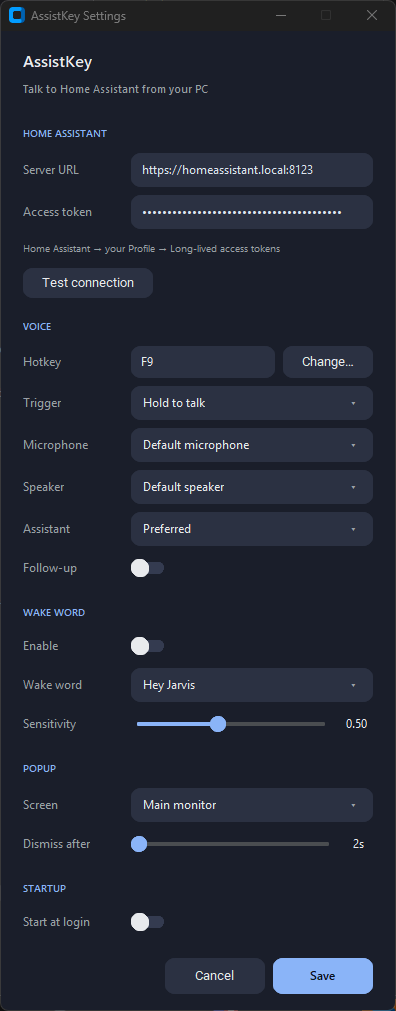
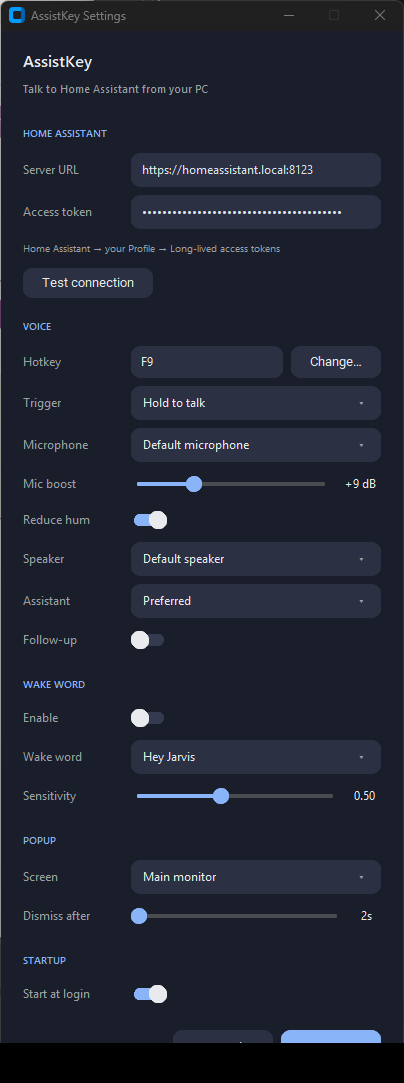
Add opt-in mic boost + gentle high-pass to improve recognition
User asked about raising mic level / reducing noise app-side. STT runs on HA
(Whisper etc.), so we can only condition what we SEND — and modern STT is
noise-robust and usually does WORSE on heavily denoised audio. So this does
LEVEL + gentle cleanup only, not spectral denoising.

- _MicDSP (assist_client): per-utterance, in on_audio before queuing to HA,
  skipped entirely when neutral. Linear boost from config.mic_gain_db
  (hard-clipped to int16 so it can't overflow/wrap), then an optional 1st-order
  high-pass/DC-blocker (~80 Hz, stateful) from config.mic_highpass.
- The level meter now reflects the PROCESSED signal, so the boost can be dialled
  in by watching the Listening bar.
- Settings -> Voice: "Mic boost" slider (0..+30 dB) + "Reduce hum" toggle. Both
  default OFF (no silent change for existing configs). No new dependencies.

Tests: +6 (inactive-when-neutral, +6 dB ~= x2, +12 dB hard-clips instead of
int16-wrapping, DC decays through the high-pass, state carries across blocks,
a 440 Hz tone survives). Settings dialog builds with the controls; screenshot
refreshed. 66 pass.

Side finding (-> ToDo): the settings dialog is now ~1051 px and overflows a
1080p work area (Save off-screen); fine on the dev 2560x1392. Deferred a
scrollable-dialog fix as a pre-public item.

diff --git a/overlay.py b/overlay.py
@@ -940,6 +940,26 @@ class SettingsDialog:
         self.mic_var = tk.StringVar()
         self._option(body, "Microphone", self.mic_map, config.mic_device, self.mic_var,
                      tip="Which microphone to record your voice from, or your Windows default.")
+        gr = ctk.CTkFrame(body, fg_color="transparent")
+        gr.pack(fill="x", pady=4)
+        ctk.CTkLabel(gr, text="Mic boost", text_color=S_MUTED, width=self.LABEL_W, anchor="w",
+                     font=("Segoe UI", 12)).pack(side="left")
+        self.gain_var = tk.IntVar(value=int(round(config.mic_gain_db)))
+        gain = ctk.CTkSlider(gr, from_=0, to=30, number_of_steps=30, variable=self.gain_var,
+                             command=self._on_gain, progress_color=S_ACCENT, button_color=S_ACCENT,
+                             button_hover_color=S_ACCENT)
+        gain.pack(side="left", fill="x", expand=True, padx=(0, 10))
+        self.gain_label = ctk.CTkLabel(gr, text=self._gain_text(config.mic_gain_db), text_color=S_FG,
+                                       width=40, font=("Segoe UI", 12))
+        self.gain_label.pack(side="left")
+        _Tooltip(gain, "Amplify a quiet mic before sending to Home Assistant. Watch the level bar "
+                       "in the Listening popup and set it so your normal voice fills the bar without "
+                       "maxing out (clipping hurts recognition). 0 = off.")
+        self.highpass_var = self._toggle_row(
+            body, "Reduce hum", config.mic_highpass,
+            tip="A gentle high-pass filter that trims low-frequency hum, rumble and DC offset before "
+                "sending to Home Assistant. Safe for speech. (Real noise suppression is intentionally "
+                "not offered — modern speech-to-text usually does WORSE on heavily denoised audio.)")
         self.spk_map = [("Default speaker", None)] + [(lbl, idx) for idx, lbl in list_output_devices()]
         self.spk_var = tk.StringVar()
         self._option(body, "Speaker", self.spk_map, config.speaker_device, self.spk_var,
@@ -1100,6 +1120,14 @@ class SettingsDialog:
     def _on_sens(self, value):
         self.sens_label.configure(text=f"{float(value):.2f}")
 
+    @staticmethod
+    def _gain_text(db) -> str:
+        db = int(round(float(db)))
+        return "off" if db <= 0 else f"+{db} dB"
+
+    def _on_gain(self, value):
+        self.gain_label.configure(text=self._gain_text(value))
+
     def _test(self):
         url, token = self.url_var.get(), self.token_var.get()
         self.test_result.configure(text="Testing…", text_color=S_MUTED)
@@ -1187,6 +1215,8 @@ class SettingsDialog:
         self.config.hotkey = self.pending_hotkey or ["f9"]
         self.config.trigger_mode = self._value_for(self.trigger_map, self.trigger_var) or "hold"
         self.config.mic_device = self._value_for(self.mic_map, self.mic_var)
+        self.config.mic_gain_db = float(self.gain_var.get())
+        self.config.mic_highpass = bool(self.highpass_var.get())
         self.config.speaker_device = self._value_for(self.spk_map, self.spk_var)
         self.config.pipeline = self._value_for(self.pipe_map, self.pipe_var)
         self.config.wake_enabled = bool(self.wake_var.get())

diff --git a/assist_client.py b/assist_client.py
@@ -122,6 +122,47 @@ def _list_devices(cap: str) -> list[tuple[int, str]]:
     return [(i, d["name"]) for i, d in enumerate(devices) if d[cap] > 0]
 
 
+class _MicDSP:
+    """Optional in-app conditioning applied to each 16-bit mic block BEFORE it is
+    streamed to Home Assistant: a linear boost (from dB, hard-clipped so it can't
+    overflow int16) and an optional 1st-order high-pass / DC-blocker (~80 Hz) that
+    trims mains hum, rumble and DC bias.
+
+    STT runs on HA (Whisper etc.), which is noise-robust and prefers natural audio —
+    so this deliberately does LEVEL + gentle cleanup only, never aggressive
+    denoising (which tends to hurt recognition). Stateful across blocks (the filter
+    carries memory); one instance per utterance.
+    """
+    _HP_A = 0.969   # ~80 Hz cutoff at 16 kHz for the 1st-order high-pass
+
+    def __init__(self, gain_db: float, highpass: bool):
+        self._gain = float(10.0 ** (float(gain_db) / 20.0))
+        self._highpass = bool(highpass)
+        self._x1 = 0.0   # previous input  \ high-pass state carried
+        self._y1 = 0.0   # previous output /  across blocks
+
+    @property
+    def active(self) -> bool:
+        """True only if it would change the audio (else the caller skips it entirely)."""
+        return self._highpass or abs(self._gain - 1.0) > 1e-3
+
+    def process(self, samples: np.ndarray) -> np.ndarray:
+        x = samples.astype(np.float32)
+        if self._highpass:
+            a, x1, y1 = self._HP_A, self._x1, self._y1
+            out = []
+            for xi in x.tolist():          # ~1600 samples/block, 10/s — cheap
+                y1 = xi - x1 + a * y1      # DC-blocker: ~unity passband gain
+                x1 = xi
+                out.append(y1)
+            self._x1, self._y1 = x1, y1
+            x = np.asarray(out, dtype=np.float32)
+        if self._gain != 1.0:
+            x *= self._gain
+        np.clip(x, -32768.0, 32767.0, out=x)   # hard-clip so the boost can't overflow
+        return x.astype(np.int16)
+
+
 class AssistClient:
     def __init__(self, config, ui):
         self.config = config
@@ -384,11 +425,15 @@ class AssistClient:
         stop_capture = asyncio.Event()
         finished = asyncio.Event()
 
+        dsp = _MicDSP(self.config.mic_gain_db, self.config.mic_highpass)
+
         def on_audio(indata, frames, t, status):
-            b = bytes(indata)
-            audio_q.put(b)
-            # Emit a mic level (0..1 peak) for the Listening meter. Cheap; ~10/s.
-            arr = np.frombuffer(b, dtype=np.int16)
+            arr = np.frombuffer(bytes(indata), dtype=np.int16)
+            if dsp.active:
+                arr = dsp.process(arr)   # boost / high-pass BEFORE streaming to HA
+            audio_q.put(arr.tobytes())
+            # Emit a mic level (0..1 peak) for the Listening meter — on the PROCESSED
+            # signal, so the bar reflects what HA receives (dial the boost by it). ~10/s.
             if arr.size:
                 self.ui(("level", float(np.abs(arr).max()) / 32768.0))
 

diff --git a/tests/test_mic_dsp.py b/tests/test_mic_dsp.py
@@ -1,0 +1,53 @@
+"""In-app mic conditioning (_MicDSP): boost, clip protection, gentle high-pass."""
+import numpy as np
+
+from assist_client import _MicDSP
+
+
+def test_inactive_when_neutral():
+    # gain 0 dB + high-pass off => nothing to do; caller skips it entirely.
+    assert _MicDSP(0.0, False).active is False
+    assert _MicDSP(6.0, False).active is True
+    assert _MicDSP(0.0, True).active is True
+
+
+def test_gain_boosts_amplitude():
+    dsp = _MicDSP(6.0, False)                     # +6 dB ≈ ×1.995
+    out = dsp.process(np.array([1000, -1000, 500], dtype=np.int16))
+    assert out.dtype == np.int16
+    assert abs(int(out[0]) - 1995) <= 3
+    assert abs(int(out[1]) + 1995) <= 3
+
+
+def test_gain_hard_clips_instead_of_overflowing():
+    # 20000 × ~4 (+12 dB) = ~80000; must clip to the int16 range, NOT wrap negative.
+    dsp = _MicDSP(12.0, False)
+    out = dsp.process(np.full(64, 20000, dtype=np.int16))
+    assert out.max() == 32767            # clipped, not wrapped
+    assert out.min() >= -32768
+    assert int(out[0]) > 0               # would be negative if int16 overflow wrapped
+
+
+def test_highpass_removes_dc_offset():
+    # A constant (pure-DC) signal must decay toward 0 through the DC-blocker.
+    dsp = _MicDSP(0.0, True)
+    out = dsp.process(np.full(2000, 5000, dtype=np.int16))
+    assert abs(int(out[0])) > 1000       # starts near the input level
+    assert abs(int(out[-1])) < 50        # DC removed by the tail
+
+
+def test_highpass_preserves_state_across_blocks():
+    # Feeding the same constant across two blocks keeps decaying (state carried),
+    # it doesn't reset to the input level at the block boundary.
+    dsp = _MicDSP(0.0, True)
+    dsp.process(np.full(2000, 5000, dtype=np.int16))
+    out2 = dsp.process(np.full(200, 5000, dtype=np.int16))
+    assert abs(int(out2[0])) < 100       # continues from the settled state, no jump
+
+
+def test_passband_signal_survives_highpass():
+    # A mid-frequency tone (well above the ~80 Hz cutoff) must pass ~intact.
+    t = np.arange(1600)
+    tone = (8000 * np.sin(2 * np.pi * 440 * t / 16000)).astype(np.int16)  # 440 Hz @ 16 kHz
+    out = _MicDSP(0.0, True).process(tone)
+    assert out.astype(np.float32).std() > 0.7 * tone.astype(np.float32).std()

diff --git a/config.py b/config.py
@@ -66,6 +66,8 @@ class Config:
     wake_word: str = "hey_jarvis"          # openWakeWord model name
     wake_sensitivity: float = 0.5          # 0–1 detection threshold (higher = stricter)
     mic_device: int | None = None          # sounddevice index; None = default
+    mic_gain_db: float = 0.0               # in-app mic boost in dB before streaming; 0 = off
+    mic_highpass: bool = False             # gentle high-pass/DC-blocker to trim hum & rumble
     speaker_device: int | None = None      # sounddevice index; None = default
     pipeline: str | None = None            # HA pipeline id; None = preferred
     dismiss_seconds: float = 2.0           # seconds the popup lingers AFTER the reply is spoken
@@ -109,6 +111,8 @@ class Config:
             "wake_word": self.wake_word,
             "wake_sensitivity": self.wake_sensitivity,
             "mic_device": self.mic_device,
+            "mic_gain_db": self.mic_gain_db,
+            "mic_highpass": self.mic_highpass,
             "speaker_device": self.speaker_device,
             "pipeline": self.pipeline,
             "dismiss_seconds": self.dismiss_seconds,

diff --git a/docs/KnowledgeBase.md b/docs/KnowledgeBase.md
@@ -2,7 +2,7 @@
 
 _The distilled MODEL: how AssistKey actually behaves. Every claim tagged FACT / HYPOTHESIS / ASSUMPTION / UNKNOWN. Read this first for behaviour/design reasoning. Numbers owned by code live in code — this points to them._
 
-_Last verified: 2026-08-27 — pump() busy-loop fix, full audit (7 fixes), + interruptible TTS fetch (barge-in now ~15 ms during a slow fetch)._
+_Last verified: 2026-08-27 — pump() busy-loop fix, full audit (7 fixes), interruptible TTS fetch, + opt-in mic boost/high-pass._
 
 ## Architecture
 
@@ -45,7 +45,8 @@ _Last verified: 2026-08-27 — pump() busy-loop fix, full audit (7 fixes), + int
   - **FACT** (⚠ invariant, bug fixed 2026-08-27 audit) — On the 5 s `_idle`-wait TIMEOUT (old run stuck — almost always in `_play`'s uninterruptible 15 s `urlopen` TTS fetch, which `sd.stop()` can't interrupt), `restart_utterance` MUST un-arm `_suppress_next_done` and `return` (NOT fall through to `start_utterance`, which would no-op because `_active` is still true). Otherwise the armed suppression — set optimistically for a replacement that never happens — swallows the old run's `("done",)`, the ONE signal that resumes wake / resets hotkey state → **wake stuck paused until restart**. `request_cancel(suppress_done=True)` assumes a new utterance starts immediately; when it can't, the suppression must be cancelled. Verified: probe (`done` fires on fetch release → wake resumes); test `test_restart_utterance_on_timeout_unarms_suppression_and_skips_noop_start`.
   - **Residual accepted edge case:** if the user's key-*release* physically lands inside the brief cancel-to-restart window (typically single-digit ms — `sd.stop()` unblocks TTS almost instantly), that release can land on the OLD (already-superseded) `_release` event and be lost, since the NEW utterance's `_release` object isn't created until `start_utterance` proceeds. Existing safety nets (`MAX_RECORD`, the popup watchdog) bound the consequence to "have to press again," not a stuck state. Not fully closed — deemed acceptable given a realistic hold-to-talk gesture is never that fast.
   - Verified end-to-end (not just isolated units) by driving the REAL `_run_utterance` loop with faked HA/audio I/O boundaries only: barge-in mid-TTS-playback produced exactly 2 `("listening",)` events and exactly 1 `("done",)` (the new utterance's, not the cancelled one's) — see Journal 2026-08-24. Unit tests: `tests/test_assist_client.py` (`_emit_done` suppression semantics, `restart_utterance` branching for idle/active/timeout).
-- **FACT** — Mic level meter: the `RawInputStream` callback emits `("level", peak 0..1)` ~10×/s; `Overlay.set_level` (attack-fast, release-slow) draws a bar in the Listening popup, reset to 0 in `listening()`.
+- **FACT** — Mic level meter: the `RawInputStream` callback emits `("level", peak 0..1)` ~10×/s; `Overlay.set_level` (attack-fast, release-slow) draws a bar in the Listening popup, reset to 0 in `listening()`. The meter reflects the PROCESSED (post-boost) signal so it can be used to dial in the boost.
+- **FACT** (in-app mic conditioning, 2026-08-27) — STT runs on HA (Whisper etc.), so AssistKey can only improve WHAT IT SENDS. `_MicDSP` (in `on_audio`, per utterance, skipped entirely when `active` is False) applies, before streaming: a linear boost from `config.mic_gain_db` (0 = off; hard-clipped to int16 so it can't overflow/wrap), then an optional 1st-order high-pass/DC-blocker (~80 Hz, `config.mic_highpass`, stateful across blocks) that trims mains hum/rumble/DC. **Deliberately LEVEL + gentle cleanup only, NO spectral denoising** — modern noise-robust STT usually does WORSE on heavily denoised audio (artifacts), so the win is good SNR (loud clean speech), not a scrubbed signal. Both default OFF (opt-in in Settings → Voice: "Mic boost" slider + "Reduce hum" toggle). Tests: `tests/test_mic_dsp.py`.
 - **FACT** (best-effort, HA-version-sensitive) — Conversation continuity: the client captures `conversation_id` from pipeline events and replays it on the next run within `CONVERSATION_TTL` (60 s) so back-to-back commands share context. Follow-up (`config.follow_up_enabled`, default OFF): `_wants_follow_up(io, reply_text)` returns true if `intent-end` carries `continue_conversation` OR the reply itself ends with "?" (many agents ask a clarifying question like "What did you mean?" without setting the flag). Then `consume_follow_up()` makes `app` auto-listen for the next turn (VAD-ended; wake stays paused across the chain) instead of dismissing. The app sets `_follow_up_next` so the next `("listening",)` calls `overlay.listening(follow_up=True)` → the popup shows **"Follow-up · answer now"** instead of "Listening", making the automatic re-listen obvious. Tests: `test_consume_follow_up_*`, `test_wants_follow_up_*`.
 
 ## Settings dialog (`overlay.py` — `SettingsDialog`)

diff --git a/docs/ResearchJournal.md b/docs/ResearchJournal.md
@@ -519,3 +519,30 @@ Verified: probe — barge-in during a blocked fetch returns `_play` in **15 ms**
 up to the full timeout); a second probe confirmed the NORMAL fetch→decode→play→done
 path is intact; unit test `test_play_returns_promptly_on_barge_in_during_fetch` runs
 clean under `-W error::RuntimeWarning` (no orphan-thread warning). 60 tests pass.
+
+---
+
+## 2026-08-27 — In-app mic conditioning (boost + gentle high-pass)
+
+User asked whether we can raise mic level / reduce noise app-side to improve
+recognition. Framed the reality first: STT runs on HA (Whisper etc.), so we can only
+condition WHAT WE SEND — and modern STT is noise-robust and often does WORSE on
+heavily denoised audio. So the reliable win is LEVEL (good SNR), not denoising. User
+picked the recommended "boost + gentle cleanup, no denoising" scope.
+
+Added `_MicDSP` (assist_client): per-utterance, in `on_audio` before queuing to HA,
+skipped when neutral. A linear boost from `mic_gain_db` (hard-clipped to int16) and an
+optional 1st-order high-pass/DC-blocker (~80 Hz, stateful) from `mic_highpass`. The
+level meter now reflects the processed signal so the boost can be dialled in by eye.
+Settings → Voice: "Mic boost" slider (0..+30 dB, label "off"/"+N dB") + "Reduce hum"
+toggle. Both default OFF (no silent change for existing configs). No new dependencies
+(numpy only; high-pass is a short per-block loop — cheap, only during capture).
+
+Verified: 6 DSP unit tests (inactive-when-neutral, +6 dB ≈ ×2, +12 dB on a loud signal
+hard-clips instead of int16-wrapping, DC offset decays through the high-pass, state
+carries across blocks, a 440 Hz tone survives). Settings dialog builds with the new
+controls (gain 9 → "+9 dB"); screenshot refreshed. 66 tests pass.
+
+Side finding (→ ToDo): the settings dialog is now ~1051 px and overflows a 1080p work
+area (Save off-screen); fine on the dev 2560×1392. Deferred a scrollable-dialog fix as
+a pre-public item, kept separate from this feature.

diff --git a/docs/ToDo.md b/docs/ToDo.md
@@ -35,3 +35,4 @@ _Last updated: 2026-08-24_
 - [ ] **[LOW] DPAPI decrypt-failure leaves ciphertext as the "token"** (dpapi.unprotect returns the `dpapi:` string on failure). If config is copied to another Windows account, the app then "connects" with garbage (auth fails / reconnect loops) and Settings shows the garbled token; re-saving re-persists it. Treating an undecryptable token as empty would prompt a clean re-entry. By-design today (KB §Credentials) — revisit if it confuses anyone.
 - [ ] **[LOW] No floor between reconnects on a pathological rapid accept-then-clean-close** (`pump`/`_reconnect`). `_reconnect` only backs off on connect FAILURE; if HA accepted then immediately clean-closed repeatedly, pump would reconnect at connect() speed (hot loop hammering HA). Unlikely, but a small min-interval would make it impossible.
 - [x] 2026-08-27 — Full-code bug audit after the pump scare: 7 fixes (wake-stuck barge-in [HIGH], wake model-download flag, repeated-error dismiss, quit TclError, auth-fail socket leak, hotkey callback isolation, settings-test teardown race). Timer-res/animating/after-leaks/hotkey-capture/dpapi audited CLEAN with probes. See Journal 2026-08-27.
+- [ ] **[MEDIUM, pre-public] Settings dialog too tall for 1080p screens.** It grew with each feature and is now ~1051 px; on a 1080p work area (~1032 px) the Save/Cancel buttons sit off-screen (fine on ≥1440p, e.g. the dev machine's 2560×1392). Make the settings body a `CTkScrollableFrame` (or otherwise height-capped) with the button bar pinned outside the scroll area, so Save is always reachable. Was already near the limit before the 2026-08-27 mic-boost rows; do before a public release. (Own risk/visual testing — kept separate from the mic feature.)

diff --git a/README.md b/README.md
@@ -104,6 +104,8 @@ your Startup folder (`Win+R` → `shell:startup`).
 | **Hotkey** | Click *Change…* then press the key (or combo, e.g. `Ctrl`+`Space`). |
 | **Trigger** | *Hold to talk* (hold while speaking) or *Tap to toggle* (tap on, tap off). |
 | **Microphone / Speaker** | Input and output devices, or the system defaults. |
+| **Mic boost** | Amplify a quiet mic (0–30 dB) before sending to Home Assistant — watch the level bar in the Listening popup and set it so your voice fills the bar without maxing out. Off by default. |
+| **Reduce hum** | A gentle high-pass filter that trims low-frequency hum, rumble and DC offset. Safe for speech; off by default. |
 | **Assistant** | Which HA pipeline to use; *Preferred* follows your HA default. |
 | **Wake word** | Enable hands-free listening and pick the word (Hey Jarvis / Alexa / …). Off by default; downloads a small local model on first enable. |
 | **Sensitivity** | Wake-word detection threshold — higher is stricter (fewer false triggers). |

diff --git a/OrientationMap.md b/OrientationMap.md
@@ -1,6 +1,6 @@
 # OrientationMap — AssistKey
 
-_Last verified: 2026-08-27 — pump() busy-loop fix + full audit (7 fixes) + interruptible TTS fetch._
+_Last verified: 2026-08-27 — pump() fix + full audit (7 fixes) + interruptible TTS fetch + opt-in mic boost/high-pass._
 
 ## What this is
 A Windows **system-tray push-to-talk app** for Home Assistant Assist. Hold a hotkey → talk → release; always-on-top toast shows Listening → your words → the streaming reply, which is also spoken. Python 3.12+ / tkinter + customtkinter, asyncio HA WebSocket, pynput hotkey, pystray tray. Entry: `app.py` (run via `AssistKey.vbs` silent or `run.bat` with a console).
